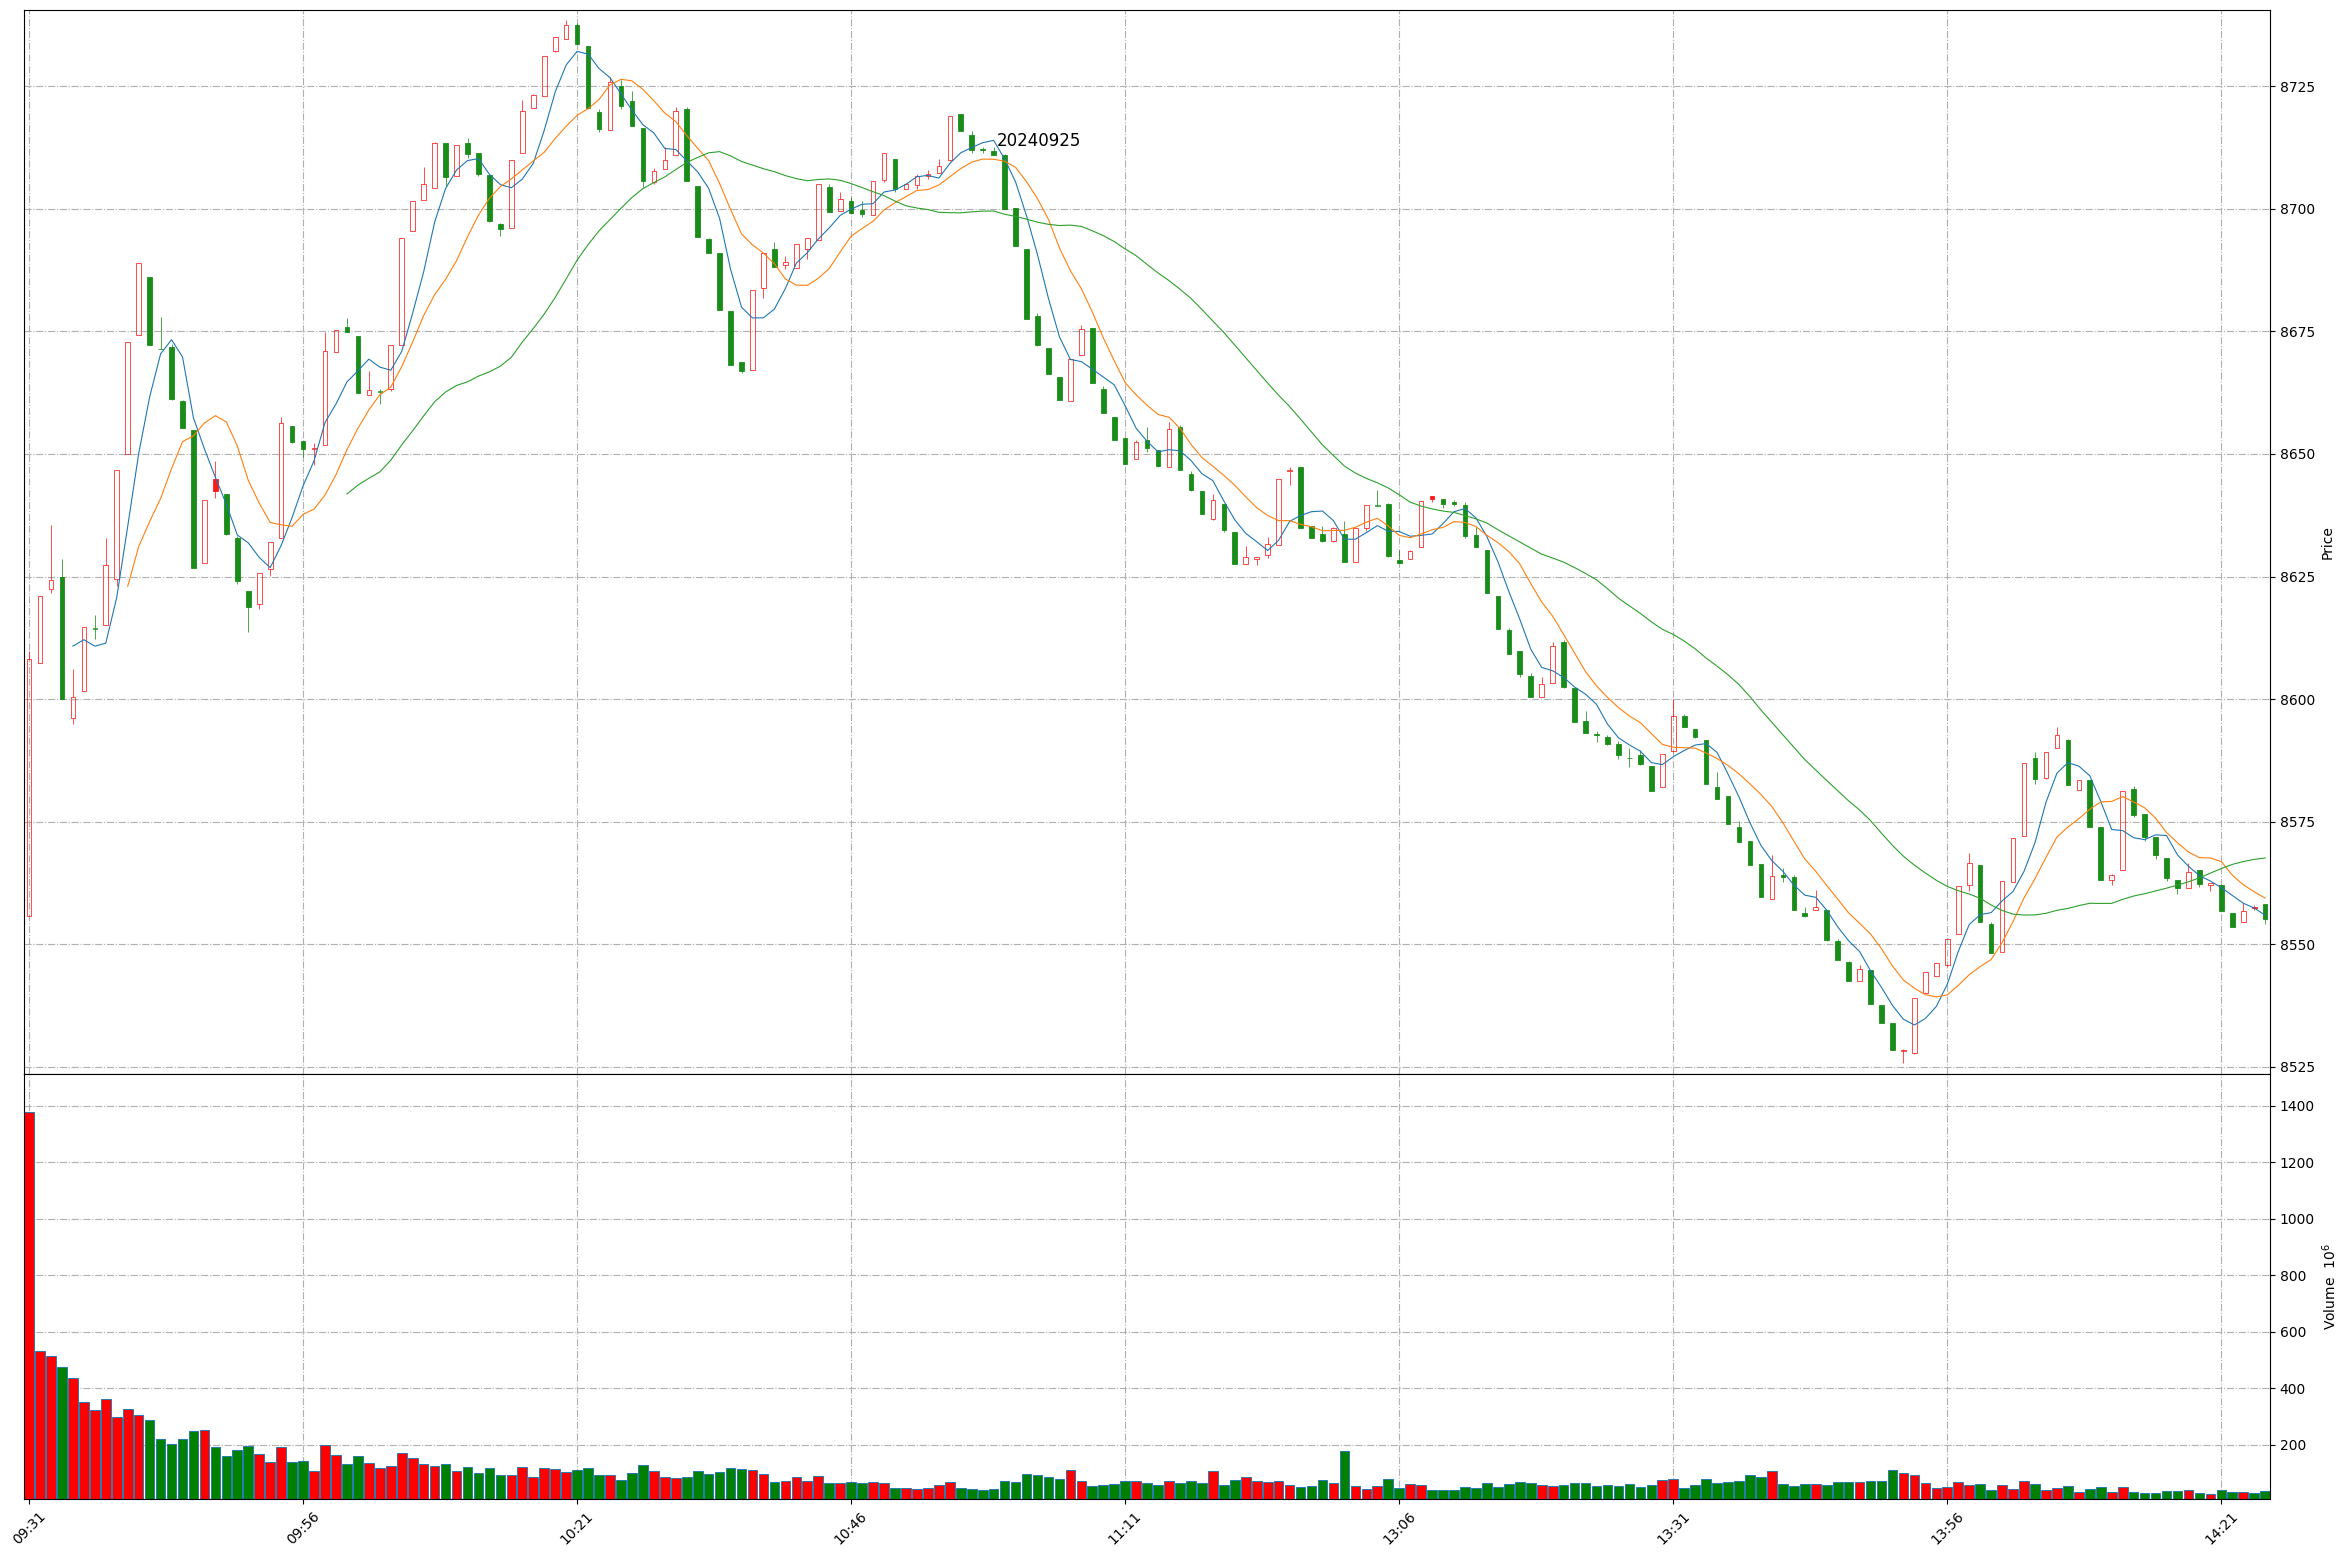
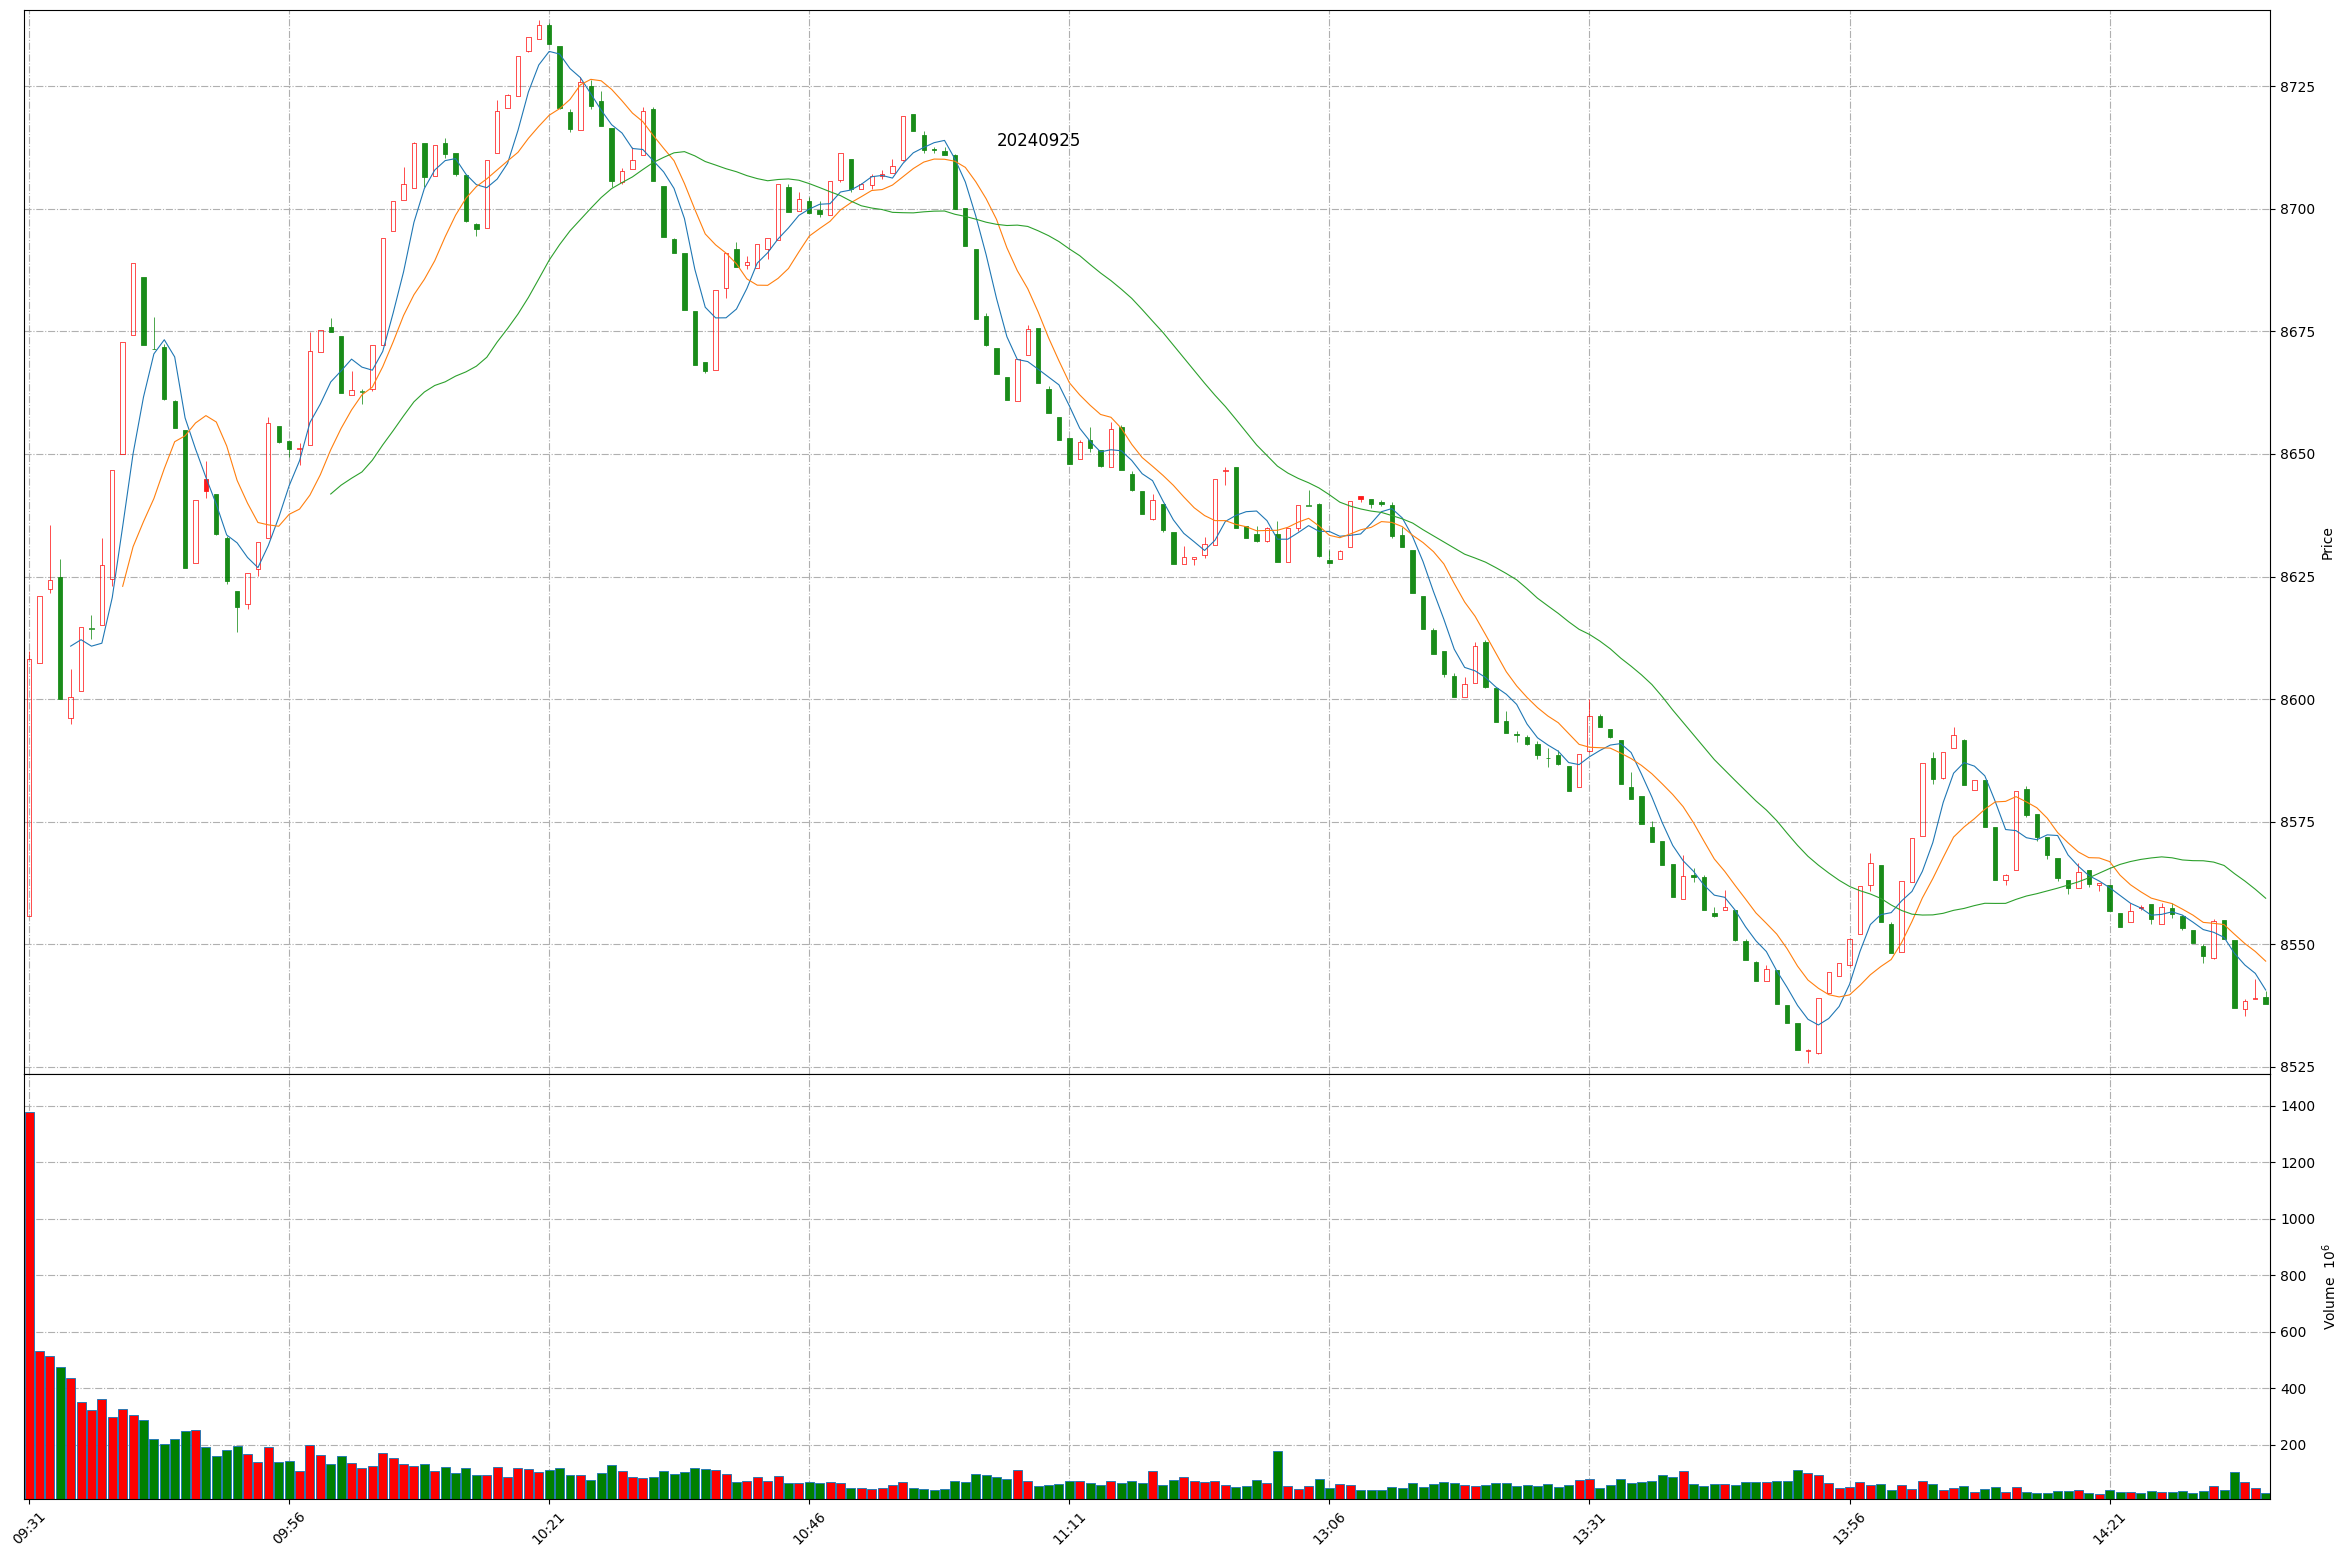
Github action update at 2024-09-25 14:35:46.

Changed region(s): [[0.1554, 0.0, 0.9634, 0.6782], [0.0, 0.894, 0.9634, 0.9865], [0.0311, 0.1541, 0.1865, 0.4316]]

diff --git a/README.md b/README.md
@@ -1,11 +1,11 @@
 
 # Daily-A-share-market-quotes 每日 A 股指数（5min 更新）- 20240925
 
-### 上证指数 20240925 14:25
+### 上证指数 20240925 14:35
 ![](./fig/2024/9/20240925-sh000001.png)
 
-### 深证成指 20240925 14:25
+### 深证成指 20240925 14:35
 ![](./fig/2024/9/20240925-sz399001.png)
 
-### 北证50 20240925 14:25
+### 北证50 20240925 14:35
 ![](./fig/2024/9/20240925-bj899050.png)
